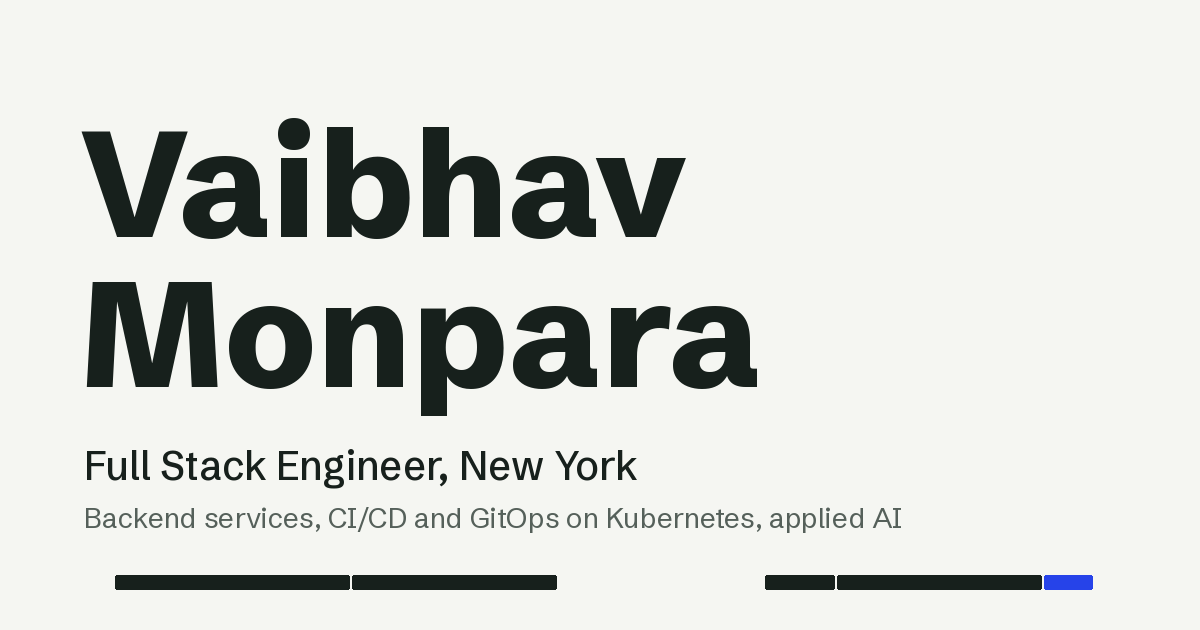
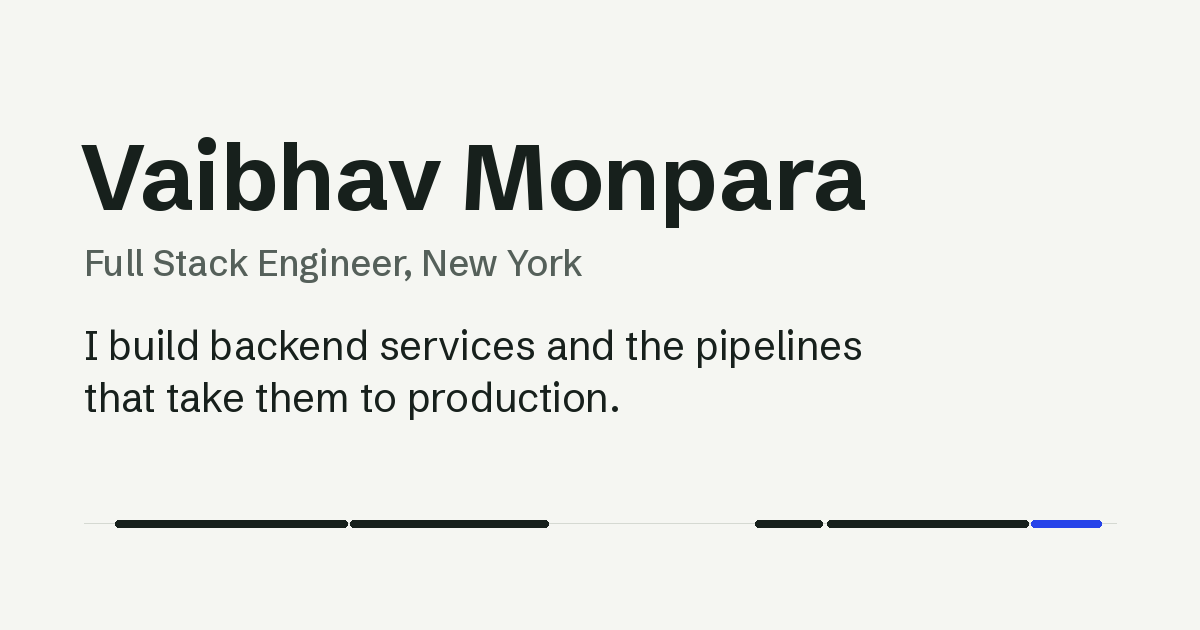
Calmer hero: smaller name, no photo, refined career line
- Name drops from 7.5rem display to a 3.25rem heading; the intro carries the hero
- Remove the portrait from the hero
- Career timeline redesigned: thin segments on a hairline track, labelled
  above with company and years; degrees as dashed lines beneath; no overlap
  where one role ends the month the next begins
- Phones get a vertical timeline (newest first, bar length = time in role)
  instead of a sideways-scrolling chart
- Share image updated to match

Claude-Session: https://claude.ai/code/session_014BJWh6JHwsM2dzPQCXTBbC

diff --git a/src/components/CareerTimeline.tsx b/src/components/CareerTimeline.tsx
@@ -2,122 +2,137 @@ import { education, experience } from "@/data/profile";
 import { formatRange, toMonthIndex } from "@/lib/dates";
 import { slug } from "@/lib/utils";
 
-type Bar = {
-  key: string;
-  label: string;
-  detail: string;
-  start: number;
-  end: number;
-  href?: string;
-  current?: boolean;
-};
+/** "2018-11" → "2018"; spans collapse to "2018–20", "2024", "2026–now". */
+function yearSpan(start: string, end: string | null): string {
+  const s = start.slice(0, 4);
+  if (end === null) return `${s}–now`;
+  const e = end.slice(0, 4);
+  return s === e ? s : `${s}–${e.slice(2)}`;
+}
 
 /**
- * Proportional timeline of every role and degree, built from profile data.
- * Work sits on the top lane, study on the bottom lane, so overlaps stay readable.
+ * Proportional career line built from profile data. Each role is a segment on a
+ * hairline track, labelled above with the company and years; degrees run as a
+ * dashed line underneath so overlaps with work stay readable.
  */
 const CareerTimeline = () => {
   const now = toMonthIndex(null);
   const firstWork = Math.min(...experience.map((r) => toMonthIndex(r.start)));
-  const axisStart = firstWork - 3;
-  const axisEnd = now + 3;
+  const axisStart = firstWork - 2;
+  const axisEnd = now + 1;
   const span = axisEnd - axisStart;
+  const pct = (m: number) => ((Math.min(Math.max(m, axisStart), axisEnd) - axisStart) / span) * 100;
 
-  const pct = (m: number) => ((Math.max(m, axisStart) - axisStart) / span) * 100;
-
-  const work: Bar[] = [...experience]
-    .sort((a, b) => toMonthIndex(a.start) - toMonthIndex(b.start))
-    .map((r) => ({
-      key: r.company,
-      label: r.company.replace(" Technologies", ""),
-      detail: `${r.role} at ${r.company}, ${formatRange(r.start, r.end)}`,
-      start: toMonthIndex(r.start),
-      end: toMonthIndex(r.end) + 1,
-      href: `#role-${slug(r.company)}`,
-      current: r.end === null,
-    }));
-
-  const study: Bar[] = education.map((e) => ({
-    key: e.degree,
-    label: e.degree.split(" ")[0],
-    detail: `${e.degree}, ${e.school}, ${formatRange(e.start, e.end)}`,
-    start: toMonthIndex(e.start),
-    end: toMonthIndex(e.end) + 1,
-  }));
-
-  const firstYear = Math.ceil(axisStart / 12);
-  const years: number[] = [];
-  for (let y = firstYear; y * 12 <= axisEnd; y++) {
-    const at = pct(y * 12);
-    if (at > 2 && at < 97) years.push(y);
-  }
-
-  const renderLane = (bars: Bar[], kind: "work" | "study") => (
-    <ol className="relative h-11">
-      {bars.map((bar, i) => {
-        const left = pct(bar.start);
-        const width = pct(bar.end) - left;
-        const tone =
-          kind === "study"
-            ? "hatch bg-paper text-ink ring-1 ring-inset ring-rule"
-            : bar.current
-              ? "bg-cobalt text-white"
-              : "bg-ink text-paper hover:bg-graphite";
-        const Tag = bar.href ? "a" : "span";
-        return (
-          <li
-            key={bar.key}
-            className="absolute inset-y-0"
-            style={{ left: `${left}%`, width: `${width}%` }}
-          >
-            <Tag
-              {...(bar.href ? { href: bar.href } : {})}
-              title={bar.detail}
-              className={`flex h-full origin-left animate-grow-x items-center overflow-hidden whitespace-nowrap rounded-[3px] px-2 text-xs font-medium transition-colors ${tone}`}
-              style={{ animationDelay: `${150 + i * 110}ms` }}
-            >
-              <span aria-hidden="true">{bar.label}</span>
-              <span className="sr-only">{bar.detail}</span>
-            </Tag>
-          </li>
-        );
-      })}
-    </ol>
-  );
+  const roles = [...experience].sort((a, b) => toMonthIndex(a.start) - toMonthIndex(b.start));
+  const longest = Math.max(...roles.map((r) => toMonthIndex(r.end) - toMonthIndex(r.start) + 1));
 
   return (
-    <figure className="mt-14 md:mt-20">
-      <figcaption className="mb-4 flex flex-wrap items-baseline justify-between gap-x-6 gap-y-1 text-sm text-graphite">
-        <span>Career so far</span>
-        <span className="flex items-center gap-4 text-xs">
-          <span className="flex items-center gap-1.5">
-            <span className="h-2.5 w-2.5 rounded-sm bg-ink" aria-hidden="true" /> Work
-          </span>
-          <span className="flex items-center gap-1.5">
-            <span className="h-2.5 w-2.5 rounded-sm bg-cobalt" aria-hidden="true" /> Current
-          </span>
-          <span className="flex items-center gap-1.5">
-            <span className="hatch h-2.5 w-2.5 rounded-sm ring-1 ring-inset ring-rule" aria-hidden="true" /> Study
-          </span>
-        </span>
-      </figcaption>
+    <figure className="mt-16 md:mt-20">
+      <figcaption className="mb-6 text-sm text-graphite">Career so far</figcaption>
 
-      <div className="-mx-5 overflow-x-auto px-5 pb-2 sm:mx-0 sm:px-0">
-        <div className="min-w-[38rem] space-y-1.5">
-          {renderLane(work, "work")}
-          {renderLane(study, "study")}
+      {/* Phones: newest first, bar length proportional to time in role */}
+      <ol className="space-y-4 sm:hidden">
+        {[...roles].reverse().map((r) => {
+          const months = toMonthIndex(r.end) - toMonthIndex(r.start) + 1;
+          const current = r.end === null;
+          return (
+            <li key={r.company}>
+              <a href={`#role-${slug(r.company)}`} className="block">
+                <span className="flex items-baseline justify-between gap-4">
+                  <span className={`text-sm font-semibold ${current ? "text-cobalt" : "text-ink"}`}>
+                    {r.company.replace(" Technologies", "")}
+                  </span>
+                  <span className="tabular text-xs text-graphite">{yearSpan(r.start, r.end)}</span>
+                </span>
+                <span className="mt-1.5 block h-px bg-rule">
+                  <span
+                    className={`block h-1.5 -translate-y-[2.5px] origin-left animate-grow-x rounded-full ${
+                      current ? "bg-cobalt" : "bg-ink"
+                    }`}
+                    style={{ width: `${Math.max((months / longest) * 100, 6)}%` }}
+                  />
+                </span>
+              </a>
+            </li>
+          );
+        })}
+      </ol>
 
-          <div className="relative h-6 border-t border-rule" aria-hidden="true">
-            {years.map((y) => (
-              <span
-                key={y}
-                className="tabular absolute top-0 -translate-x-1/2 pt-1.5 text-xs text-graphite before:absolute before:left-1/2 before:top-0 before:h-1.5 before:w-px before:bg-rule"
-                style={{ left: `${pct(y * 12)}%` }}
-              >
-                {y}
-              </span>
-            ))}
-          </div>
+      <div className="hidden sm:block">
+        <div className="relative pr-12">
+          {/* Work */}
+          <ol className="relative h-[4.75rem]">
+            {roles.map((r, i) => {
+              const next = roles[i + 1];
+              // A role ending the month the next one starts shouldn't overlap it.
+              const endMonth = Math.min(
+                toMonthIndex(r.end) + 1,
+                next ? toMonthIndex(next.start) : Infinity,
+              );
+              const left = pct(toMonthIndex(r.start));
+              const width = pct(endMonth) - left;
+              const current = r.end === null;
+              return (
+                <li key={r.company} className="absolute inset-y-0" style={{ left: `${left}%`, width: `${width}%` }}>
+                  <a
+                    href={`#role-${slug(r.company)}`}
+                    title={`${r.role} at ${r.company}, ${formatRange(r.start, r.end)}`}
+                    className="group flex h-full flex-col justify-end"
+                  >
+                    <span
+                      className={`whitespace-nowrap text-sm font-semibold leading-tight transition-colors group-hover:text-cobalt ${
+                        current ? "text-cobalt" : "text-ink"
+                      }`}
+                    >
+                      {r.company.replace(" Technologies", "")}
+                    </span>
+                    <span className="tabular whitespace-nowrap text-xs leading-tight text-graphite">
+                      {yearSpan(r.start, r.end)}
+                    </span>
+                    <span className="mt-2 h-3 w-px bg-rule" aria-hidden="true" />
+                    <span
+                      className={`h-1.5 origin-left animate-grow-x rounded-full transition-colors ${
+                        current ? "bg-cobalt" : "bg-ink group-hover:bg-cobalt"
+                      } ${i < roles.length - 1 ? "mr-[3px]" : ""}`}
+                      style={{ animationDelay: `${120 + i * 110}ms` }}
+                      aria-hidden="true"
+                    />
+                    <span className="sr-only">
+                      {r.role} at {r.company}, {formatRange(r.start, r.end)}
+                    </span>
+                  </a>
+                </li>
+              );
+            })}
+          </ol>
+
+          {/* Track the segments sit on */}
+          <div className="absolute inset-x-0 top-[calc(4.75rem-3.5px)] -z-10 h-px bg-rule" aria-hidden="true" />
+
+          {/* Study */}
+          <ol className="relative mt-4 h-9">
+            {education.map((e) => {
+              const left = pct(toMonthIndex(e.start));
+              const width = pct(toMonthIndex(e.end) + 1) - left;
+              const short = e.degree.split(" ")[0];
+              return (
+                <li
+                  key={e.degree}
+                  className="absolute top-0"
+                  style={{ left: `${left}%`, width: `${width}%` }}
+                  title={`${e.degree}, ${e.school}, ${formatRange(e.start, e.end)}`}
+                >
+                  <span className="block h-0 border-t-2 border-dashed border-graphite/40" aria-hidden="true" />
+                  <span className="mt-2 block whitespace-nowrap text-xs text-graphite">
+                    {short}, {e.school.split(",")[0].replace("Gujarat Technological University", "GTU")}
+                  </span>
+                  <span className="sr-only">
+                    {e.degree}, {e.school}, {formatRange(e.start, e.end)}
+                  </span>
+                </li>
+              );
+            })}
+          </ol>
         </div>
       </div>
     </figure>

diff --git a/src/components/Hero.tsx b/src/components/Hero.tsx
@@ -1,66 +1,49 @@
 import { Github, Linkedin, Mail } from "lucide-react";
-import profileImage from "@/assets/profile.jpg";
 import { profile } from "@/data/profile";
 import CareerTimeline from "./CareerTimeline";
 
-const Hero = () => {
-  const [first, ...rest] = profile.name.split(" ");
+const button =
+  "inline-flex items-center gap-2 rounded-md px-4 py-2.5 text-[0.9375rem] font-medium transition-colors";
 
-  return (
-    <section id="top" className="container pb-16 pt-14 md:pb-24 md:pt-24">
-      <div className="flex flex-col-reverse gap-10 md:flex-row md:items-end md:justify-between">
-        <div className="max-w-3xl">
-          <h1 className="text-[clamp(3.25rem,10vw,7.5rem)] font-extrabold leading-[0.92] tracking-[-0.045em]">
-            {first}
-            <br />
-            {rest.join(" ")}
-          </h1>
-          <p className="mt-8 text-xl font-medium md:text-2xl">
-            {profile.title}, {profile.location}
-          </p>
-          <p className="mt-3 max-w-[38rem] text-lg text-graphite">{profile.intro}</p>
+const Hero = () => (
+  <section id="top" className="container pb-16 pt-16 md:pb-24 md:pt-28">
+    <div className="max-w-[46rem]">
+      <h1 className="text-[clamp(2.25rem,5vw,3.25rem)] font-bold leading-[1.05] tracking-[-0.03em]">
+        {profile.name}
+      </h1>
+      <p className="mt-3 text-lg font-medium text-graphite">
+        {profile.title}, {profile.location}
+      </p>
+      <p className="mt-8 text-[clamp(1.25rem,2.4vw,1.5rem)] leading-snug">{profile.intro}</p>
 
-          <div className="mt-8 flex flex-wrap items-center gap-3">
-            <a
-              href="#contact"
-              className="inline-flex items-center gap-2 rounded-md bg-ink px-4 py-2.5 font-medium sm:px-5 sm:py-3 text-paper transition-colors hover:bg-cobalt"
-            >
-              <Mail className="h-4 w-4" aria-hidden="true" />
-              Get in touch
-            </a>
-            <a
-              href={profile.links.linkedin}
-              target="_blank"
-              rel="noopener noreferrer"
-              className="inline-flex items-center gap-2 rounded-md border border-rule bg-white/60 px-4 py-2.5 font-medium sm:px-5 sm:py-3 transition-colors hover:border-ink"
-            >
-              <Linkedin className="h-4 w-4" aria-hidden="true" />
-              LinkedIn
-            </a>
-            <a
-              href={profile.links.github}
-              target="_blank"
-              rel="noopener noreferrer"
-              className="inline-flex items-center gap-2 rounded-md border border-rule bg-white/60 px-4 py-2.5 font-medium sm:px-5 sm:py-3 transition-colors hover:border-ink"
-            >
-              <Github className="h-4 w-4" aria-hidden="true" />
-              GitHub
-            </a>
-          </div>
-        </div>
-
-        <img
-          src={profileImage}
-          alt={`Portrait of ${profile.name}`}
-          width={896}
-          height={1194}
-          className="h-40 w-32 shrink-0 rounded-md object-cover object-top grayscale-[15%] md:h-60 md:w-48"
-        />
+      <div className="mt-9 flex flex-wrap items-center gap-3">
+        <a href="#contact" className={`${button} bg-ink text-paper hover:bg-cobalt`}>
+          <Mail className="h-4 w-4" aria-hidden="true" />
+          Get in touch
+        </a>
+        <a
+          href={profile.links.linkedin}
+          target="_blank"
+          rel="noopener noreferrer"
+          className={`${button} border border-rule bg-white/60 hover:border-ink`}
+        >
+          <Linkedin className="h-4 w-4" aria-hidden="true" />
+          LinkedIn
+        </a>
+        <a
+          href={profile.links.github}
+          target="_blank"
+          rel="noopener noreferrer"
+          className={`${button} border border-rule bg-white/60 hover:border-ink`}
+        >
+          <Github className="h-4 w-4" aria-hidden="true" />
+          GitHub
+        </a>
       </div>
+    </div>
 
-      <CareerTimeline />
-    </section>
-  );
-};
+    <CareerTimeline />
+  </section>
+);
 
 export default Hero;
